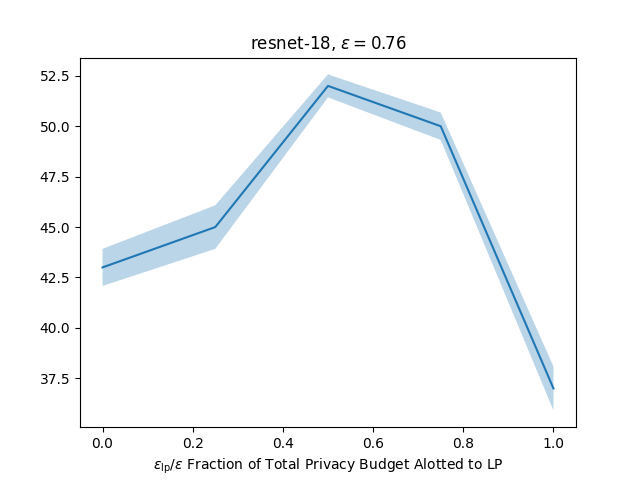
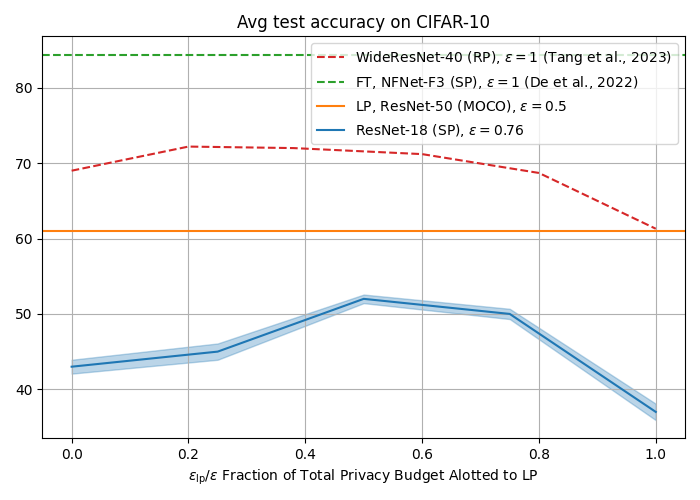
go

diff --git a/DP-SGD/NormaLcifar10/summary.py b/DP-SGD/NormaLcifar10/summary.py
@@ -1,14 +1,23 @@
 import os
 import numpy as np
+import matplotlib
 import matplotlib.pyplot as plt
+my_cmap = matplotlib.colormaps['tab10']
 
 
 os.makedirs('./img',exist_ok=True)
-plt.title(r'resnet-18, $\epsilon=0.76$')
+plt.figure(figsize=(7,5))
+plt.title('Avg test accuracy on CIFAR-10')
+plt.grid(True)
 x = np.array([0, 5, 10, 15, 20]) / 20
 acc = np.array([43, 45, 52, 50, 37])
 std = np.array([0.92, 1.08, 0.57, 0.68, 1.09])
 plt.xlabel(r'$\epsilon_{\mathrm{lp}}/\epsilon$' + ' Fraction of Total Privacy Budget Alotted to LP')
-plt.plot(x, acc)
-plt.fill_between(x, y1=acc-std, y2=acc+std, alpha=0.3)
+plt.plot([0, 0.2, 0.38, 0.6, 0.8, 1], [69, 72.2, 72, 71.2, 68.7, 61.3], color=my_cmap(3), linestyle='--', label=r'WideResNet-40 (RP), $\epsilon=1$ (Tang et al., 2023)') # data from https://arxiv.org/abs/2306.06076
+plt.axhline(y=84.4, color=my_cmap(2), linestyle='--', label=r'FT, NFNet-F3 (SP), $\epsilon=1$ (De et al., 2022)') # data from https://arxiv.org/abs/2204.13650
+plt.axhline(y=61, color=my_cmap(1), linestyle='-', label=r'LP, ResNet-50 (MOCO), $\epsilon=0.5$') # data from CLIPcifar10 folder
+plt.plot(x, acc, color=my_cmap(0), label=r'ResNet-18 (SP), $\epsilon=0.76$')
+plt.fill_between(x, y1=acc-std, y2=acc+std, color=my_cmap(0), alpha=0.3)
+plt.legend()
+plt.tight_layout()
 plt.savefig('img/resnet18eps0.76.png')
